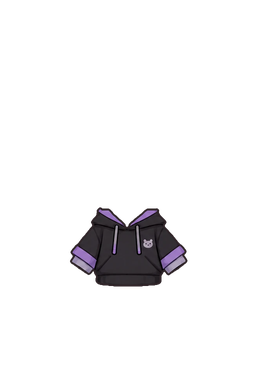
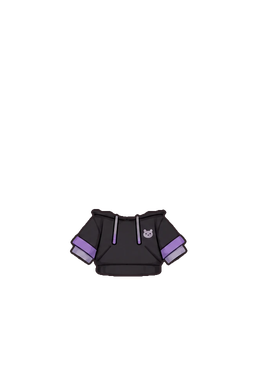
아바타: 후드티·패딩 위로 올려 목선을 턱 밑에 맞춤
Claude-Session: https://claude.ai/code/session_015VxnKS3baGbwJXJNNp74ix

Changed region(s): [[0.2481, 0.5285, 0.7442, 0.7461]]

diff --git a/av/tops.py b/av/tops.py
@@ -22,7 +22,7 @@ SC=FIT*S; TOPY=203*S; CX=129*S
 OPEN={2,6,12,26}           # 앞이 열린 자켓: 사이를 흰 티로
 HOLE={17,19,20,21,23}       # 목 안쪽 흰 빈 곳이 있는 옷: 흰 티로
 NOCUT={0,3,5,8,13,15,16,24,28,29,30,31,33,35,36,37}  # 앞 깃이 목에 걸친 옷: 목선 자르지 않음
-DY={}                        # 옷별 위아래 보정 (출력 px)
+DY={1:-10,4:-10,14:-10,10:-6}   # 옷별 위아래 보정 (출력 px). 후드는 후드가 위로 솟아서 몸통이 내려가 보이니 올림
 NECK=dict(ny=207, d=9, nw=19) # 목선: 가운데 y=ny+d, 폭 ±nw (출력 px)
 def ramp(m,s=1.2): return np.clip((ndimage.gaussian_filter(m.astype(float),s)-.5)*3+.5,0,1)
 head=np.array(Image.open(AV+'base-0.png').resize((W,H),Image.NEAREST))[...,3]>128
